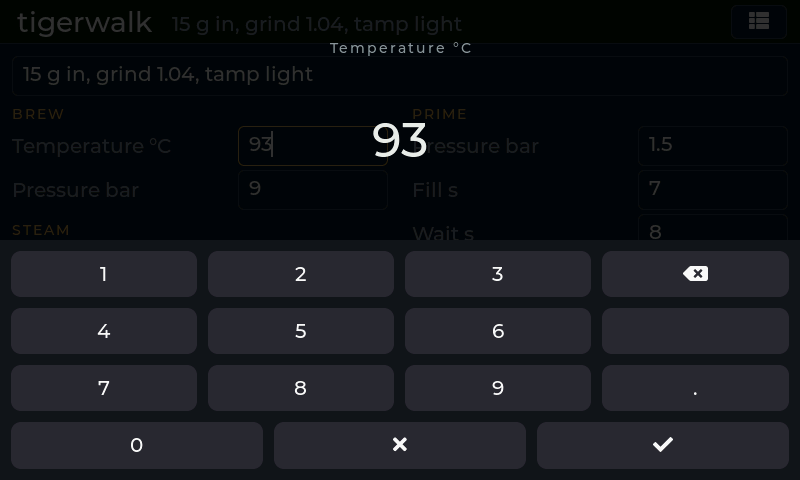
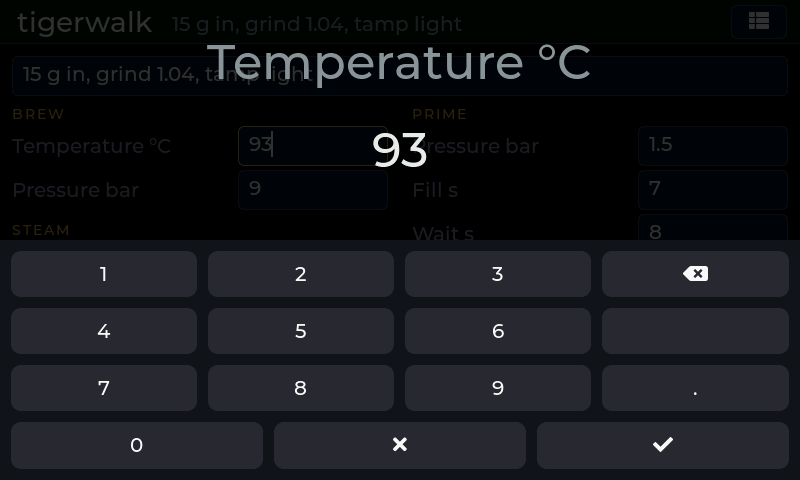
ui: editor title and value at the largest font
Claude-Session: https://claude.ai/code/session_016XyD3ZMrdy4hijk3p6yM2m

Changed region(s): [[0.25, 0.0938, 0.75, 0.1875], [0.4688, 0.25, 0.5312, 0.3438], [0.7188, 0.1562, 0.75, 0.1875]]

diff --git a/gaggiano-v2/theme.c b/gaggiano-v2/theme.c
@@ -24,7 +24,7 @@ static lv_color_t steel_hi(void) { return lv_color_hex(0x6B7480); }
 static lv_style_t st_screen, st_header, st_surface, st_muted, st_title, st_header_notes, st_menu;
 static lv_style_t st_btn, st_btn_on, st_btn_on_steam, st_btn_dis, st_btn_name, st_btn_value;
 static lv_style_t st_tile, st_tile_label, st_tile_value, st_tile_unit, st_chart;
-static lv_style_t st_group_title, st_editor, st_editor_value;
+static lv_style_t st_group_title, st_editor, st_editor_value, st_editor_title;
 static lv_style_t st_btn_sub, st_list, st_list_row, st_list_row_sel, st_field_label, st_field, st_view;
 
 void theme_init(void) {
@@ -145,6 +145,11 @@ void theme_init(void) {
   lv_style_set_border_width(&st_editor_value, 0);
   lv_style_set_pad_all(&st_editor_value, 4);
 
+  lv_style_init(&st_editor_title);
+  lv_style_set_text_font(&st_editor_title, theme_font_big);
+  lv_style_set_text_color(&st_editor_title, theme_muted());
+  lv_style_set_text_align(&st_editor_title, LV_TEXT_ALIGN_CENTER);
+
   lv_style_init(&st_field_label);
   lv_style_set_text_font(&st_field_label, theme_font_name);
   lv_style_set_text_color(&st_field_label, theme_muted());
@@ -253,6 +258,7 @@ void theme_apply_graph(lv_obj_t *chart) {
 }
 
 void theme_apply_editor(lv_obj_t *overlay) { lv_obj_add_style(overlay, &st_editor, 0); }
+void theme_apply_editor_title(lv_obj_t *label) { lv_obj_add_style(label, &st_editor_title, 0); }
 void theme_apply_editor_value(lv_obj_t *ta) {
   lv_obj_add_style(ta, &st_editor_value, 0);
   lv_obj_set_style_text_color(ta, theme_amber(), LV_PART_CURSOR);

diff --git a/gaggiano-v2/lv_buildUI.c b/gaggiano-v2/lv_buildUI.c
@@ -217,14 +217,15 @@ static void editor_create(void) {
   lv_obj_add_flag(editor, LV_OBJ_FLAG_HIDDEN);
 
   editor_title = lv_label_create(editor);
-  theme_apply_tile_label(editor_title);
-  lv_obj_align(editor_title, LV_ALIGN_TOP_MID, 0, 40);
+  theme_apply_editor_title(editor_title);
+  lv_obj_set_width(editor_title, LV_PCT(90));
+  lv_obj_align(editor_title, LV_ALIGN_TOP_MID, 0, 36);
 
   editor_ta = lv_textarea_create(editor);
   theme_apply_editor_value(editor_ta);
   lv_textarea_set_one_line(editor_ta, true);
   lv_obj_set_width(editor_ta, LV_PCT(90));
-  lv_obj_align(editor_ta, LV_ALIGN_CENTER, 0, 20);
+  lv_obj_align(editor_ta, LV_ALIGN_TOP_MID, 0, 120);
 }
 
 // Tapping a field opens the editor; the editor writes the value back on OK.

diff --git a/gaggiano-v2/theme.h b/gaggiano-v2/theme.h
@@ -59,6 +59,7 @@ void theme_apply_graph(lv_obj_t *chart);          // the full history chart: fai
 void theme_apply_legend(lv_obj_t *label, lv_color_t color);
 void theme_apply_editor(lv_obj_t *overlay);       // dim layer above the keyboard
 void theme_apply_editor_value(lv_obj_t *textarea); // the value being edited, large
+void theme_apply_editor_title(lv_obj_t *label);    // the field's name, same size, muted
 
 #ifdef __cplusplus
 }
